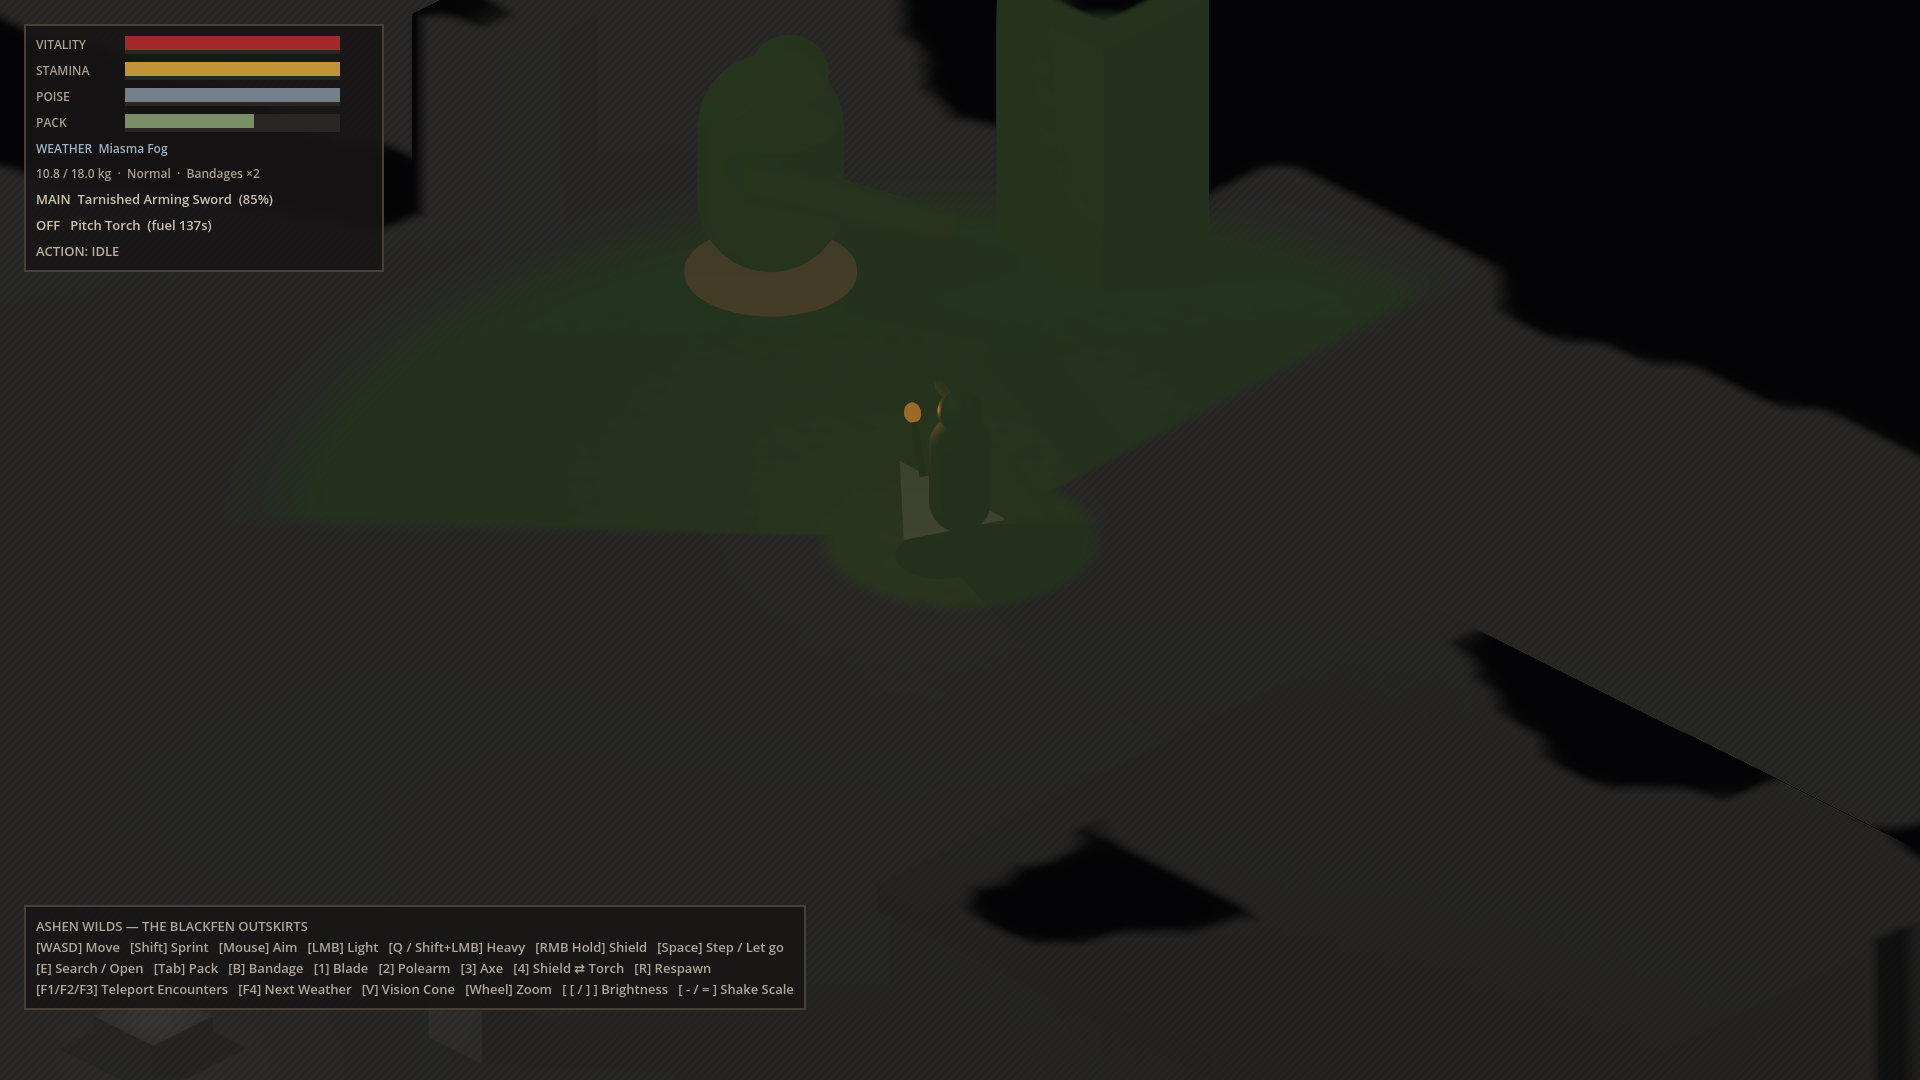
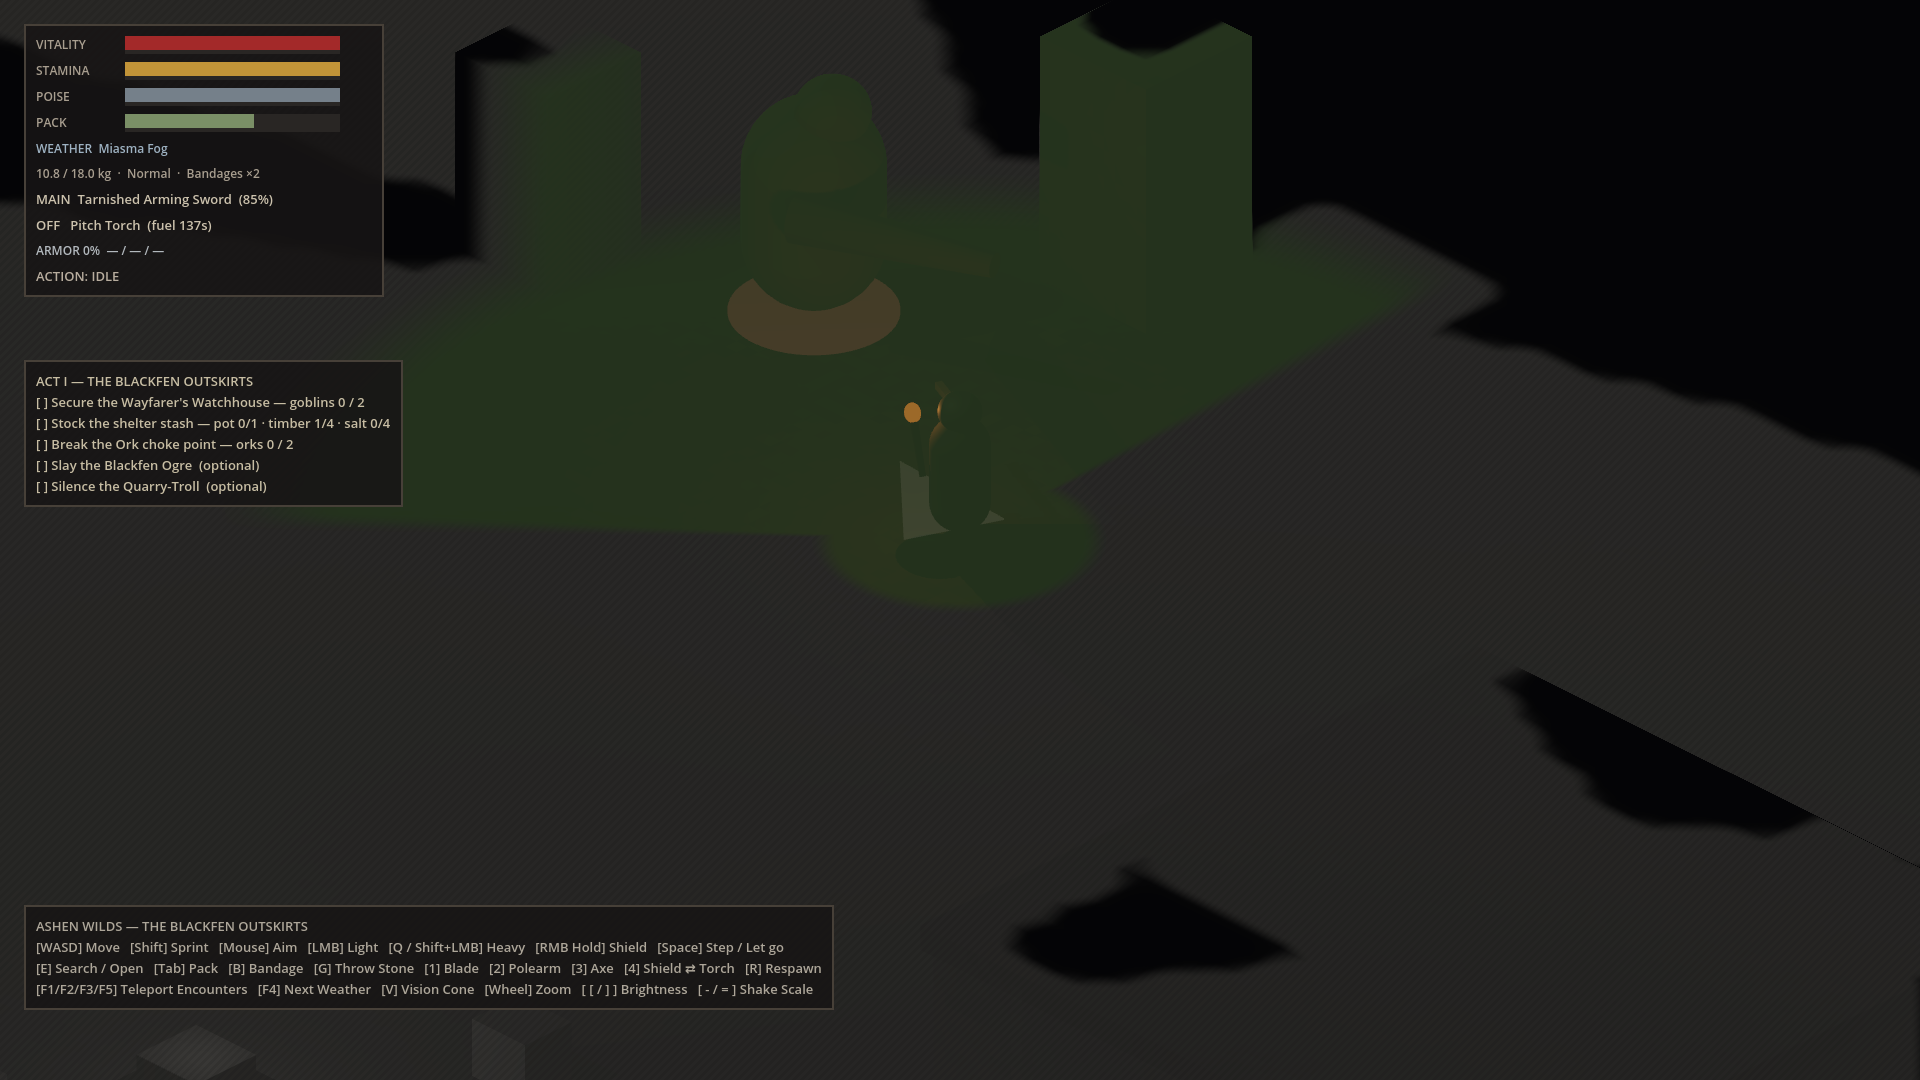
Milestone 13: Act I objectives and the shelter stash
An objective tracker (secure the watchhouse, stock the shelter stash,
break the Ork choke point; optional Ogre and Quarry-Troll) re-checked
twice a second and shown under the stats. The Shelter Stash accepts
deposits via a new Store button in the pack window. Finishing the
main objectives shows a once-only Act I complete card. Screenshots
re-rendered with the new HUD lines; adds the Act I card.
19 new smoke checks (313).

Claude-Session: https://claude.ai/code/session_01G61NxEBeP7y4TB9FiQWy1K

diff --git a/README.md b/README.md
@@ -5,7 +5,7 @@ Thirty years into the Smothering, you are a broken survivor scavenging the Black
 
 ![The Blackfen Ogre winds up a ground slam while the survivor holds a torch and broadaxe](docs/screenshots/06_ogre_lair.png)
 
-> **Status:** Milestones 1–12 complete · verified on Godot 4.3-stable (Forward+) · **294/294** headless regression checks passing
+> **Status:** Milestones 1–13 complete · verified on Godot 4.3-stable (Forward+) · **313/313** headless regression checks passing
 > Art is intentionally placeholder (primitive meshes, procedural audio) — systems first.
 
 ---
@@ -185,6 +185,18 @@ Head, body and legs slots. Equip armor from the pack window. Putting it on and t
 
 The mail is the big choice: real protection and no more bleeding, but 7.5 kg pushes most packs into *Burdened*, and every step jingles for the Quarry-Troll to hear.
 
+### Act I objectives & the shelter (Milestone 13)
+The slice now has an ending. The objective tracker (under your stats) lists:
+
+1. **Secure the Wayfarer's Watchhouse**: kill both goblins.
+2. **Stock the shelter stash**: carry back the Cast-Iron Cooking Pot (from the Ogre's bone heap), 4 Seasoned Timber and 4 Salt Rations. Open the Shelter Stash and use **Store** in your pack window. The stash is the only container that takes deposits.
+3. **Break the Ork choke point**: kill both Orks on the Old Causeway.
+4. *Optional:* slay the Blackfen Ogre. *Optional:* silence the Quarry-Troll.
+
+Finishing the three main objectives shows the **Act I complete** card (time spent and objectives done). **Enter** closes it and you can keep exploring.
+
+![Act I complete](docs/screenshots/15_act_one_complete.png)
+
 ---
 
 ## Controls
@@ -240,7 +252,7 @@ godot --headless --path . --import          # first run only: builds the class c
 godot --headless --path . --script res://tests/smoke_test.gd
 ```
 
-The process exit code is the number of failures (`0` = all passed). It covers spawning, the damage pipeline, the attack state machine, attack tokens, inventory stacking and weight, encumbrance, searching and every way to cancel it, equipment swaps and hitbox reshaping, torch fuel, durability and shield splintering, bandaging, dropping and picking up, the pack/loot UI, corpse loot, the world containers, which strokes clang where (per weapon, per stroke, hall vs. open ground vs. doorway), every lodging outcome (tug free, let go, torn free, work loose, and the cases that must *not* lodge), which enemy strokes clang (Ork sweep vs. chop, Vanguard discipline, Ogre sweep vs. slam, goblin stabs), every survivor's trait and flaw, what the cone can and can't see, exploration memory, when a noise does or doesn't make a ripple, each weather's effect on sight, hearing, fire and footing, indoors and out, what each enemy hears (and doesn't) through walls, the troll's hunting, hide and clangs, thrown stones as lures, and armor (protection, wear, the cap, bleeding, noise, slots).
+The process exit code is the number of failures (`0` = all passed). It covers spawning, the damage pipeline, the attack state machine, attack tokens, inventory stacking and weight, encumbrance, searching and every way to cancel it, equipment swaps and hitbox reshaping, torch fuel, durability and shield splintering, bandaging, dropping and picking up, the pack/loot UI, corpse loot, the world containers, which strokes clang where (per weapon, per stroke, hall vs. open ground vs. doorway), every lodging outcome (tug free, let go, torn free, work loose, and the cases that must *not* lodge), which enemy strokes clang (Ork sweep vs. chop, Vanguard discipline, Ogre sweep vs. slam, goblin stabs), every survivor's trait and flaw, what the cone can and can't see, exploration memory, when a noise does or doesn't make a ripple, each weather's effect on sight, hearing, fire and footing, indoors and out, what each enemy hears (and doesn't) through walls, the troll's hunting, hide and clangs, thrown stones as lures, armor (protection, wear, the cap, bleeding, noise, slots), and the Act I loop (objectives, storing supplies, the end card).
 
 > Headless runs print `Parameter "m" is null` and an "instances leaked at exit" warning. Both come from Godot's dummy renderer and audio driver, which are only used in headless mode — not from the game.
 
@@ -265,7 +277,8 @@ shaders/
   foreground_cutaway.gdshader   Bayer-dither wall/roof cutaway
   vision_memory.gdshader        Vision cone + charcoal memory map (full-screen pass)
 scripts/
-  core/       scene_bootstrap.gd (builds the level, input map, containers), procedural_audio.gd
+  core/       scene_bootstrap.gd (builds the level, input map, containers, Act I objectives), procedural_audio.gd,
+              act_objectives.gd (objective tracker)
   camera/     iso_camera_rig.gd
   combat/     hitbox / hurtbox components, encounter_coordinator.gd, swing_geometry.gd (shared clang arc check)
   data/       weapon_data, combat_payload, item_data, item_instance, item_database (all items + loot tables),
@@ -277,7 +290,7 @@ scripts/
   enemies/    goblin scavenger, ork warrior, ogre brute, quarry troll
   ui/         tactical_hud.gd, inventory_ui.gd, background_picker.gd
 tests/
-  smoke_test.gd            Headless regression suite (294 checks)
+  smoke_test.gd            Headless regression suite (313 checks)
 tools/
   capture_screenshots.gd   Renders docs/screenshots/
 docs/screenshots/          README images (ignored by Godot via docs/.gdignore)
@@ -302,7 +315,7 @@ docs/screenshots/          README images (ignored by Godot via docs/.gdignore)
 
 Milestones 6–9 followed [`docs/ROADMAP.md`](docs/ROADMAP.md). Their numbers are first-pass proposals to be checked against the design document and tuned in playtests. Next candidates:
 
-- Milestones 13–14 (planned in the roadmap): Act I objectives and the shelter, save & load.
+- Milestone 14 (planned in the roadmap): save & load.
 - Later: companions, the rest of the bestiary, Acts II–III.
 - An art and audio pass, once the look is settled. See *Known limitations*.
 
@@ -311,7 +324,7 @@ Milestones 6–9 followed [`docs/ROADMAP.md`](docs/ROADMAP.md). Their numbers ar
 ## Known limitations
 
 - Placeholder visuals: characters and props are primitive meshes; audio is synthesized at runtime.
-- No save system yet; your pack is kept when you respawn.
+- No save system yet; your pack is kept when you respawn. Act I has no failure state: death sends you back to the shelter fire.
 - Only tested on Godot **4.3-stable**.
 - The test suite checks game logic, not feel. Swap times, light levels, charcoal contrast, ripple readability, ice handling and UI layout still need hands-on tuning.
 - Survivor, weather and noise numbers are first-pass proposals (see the roadmap). The design document has the final say.

diff --git a/CLAUDE.md b/CLAUDE.md
@@ -6,7 +6,7 @@ Guidance for Claude (and other agents) working in this repository. Player-facing
 
 An isometric dark-survival action game in **Godot 4.3-stable**, GDScript 2.0, Forward+ renderer. Everything (level geometry, enemies, items, UI, audio) is built in code at startup by `scripts/core/scene_bootstrap.gd`, so there are no imported assets, `.tres` resources or `.tscn` files beyond `main.tscn`.
 
-Milestones 1–12 are complete: combat core, four enemy types, scavenging and equipment, wall deflection and weapon lodging, enemy wall clangs, survivor backgrounds, vision cone and acoustic ripples, weather, enemy ears, the Blind Quarry-Troll and thrown stones, armor slots. `docs/ROADMAP.md` has the plan through M14 and the proposed numbers. The design document (not in the repo) has the final say on specifics.
+Milestones 1–13 are complete: combat core, four enemy types, scavenging and equipment, wall deflection and weapon lodging, enemy wall clangs, survivor backgrounds, vision cone and acoustic ripples, weather, enemy ears, the Blind Quarry-Troll and thrown stones, armor slots, Act I objectives and the shelter stash. `docs/ROADMAP.md` has the plan through M14 and the proposed numbers. The design document (not in the repo) has the final say on specifics.
 
 ## Get Godot (cloud sessions don't have it)
 
@@ -46,7 +46,7 @@ $GODOT --headless --path . --quit-after 1200 2>&1 \
 
 **Expected headless noise. Ignore it:** `Parameter "m" is null` / `mesh_get_surface_count` (dummy renderer) and `ObjectDB instances leaked at exit` (an `AudioStreamGeneratorPlayback` under the dummy audio driver). Neither happens with a real renderer or sound card.
 
-Run the suite twice after timing-sensitive changes to catch flakiness. Currently: **294 checks, 0 failures**.
+Run the suite twice after timing-sensitive changes to catch flakiness. Currently: **313 checks, 0 failures**.
 
 ## Screenshots (README images)
 
@@ -63,7 +63,8 @@ xvfb-run -a -s "-screen 0 1920x1080x24" $GODOT --path . --rendering-driver vulka
 ## Layout
 
 ```
-scripts/core/       scene_bootstrap.gd (level, input map, spawns, containers), procedural_audio.gd
+scripts/core/       scene_bootstrap.gd (level, input map, spawns, containers, objectives), procedural_audio.gd,
+                    act_objectives.gd (checks + progress callables, act completion)
 scripts/camera/     iso_camera_rig.gd (45° yaw / -30° pitch ortho, shake, brightness)
 scripts/combat/     hitbox_component, hurtbox_component, encounter_coordinator (attack tokens), swing_geometry (shared clang arc + sparks)
 scripts/data/       weapon_data, combat_payload, item_data, item_instance, item_database (all items + loot tables),
@@ -95,6 +96,7 @@ Physics layers: 1 Environment · 2 PlayerBody · 3 EnemyBody · 4 PlayerHurtbox 
 - **A noise credited to someone else** (a thrown stone's thud is the thrower's) goes through `AcousticField.report_as()`.
 - **Art is being made separately** (sprites from another agent). Keep visuals inside each class's `_build_*_visuals*` function so they can be swapped without touching gameplay.
 - **Weather:** read effects via `WeatherSystem.factor(node, key)`, never by checking `current`. Fire and footing keys (`SHELTERED_KEYS`) are neutral under a roof. Register new interiors with both the camera rig and `WeatherSystem.register_interior()`. Tests and tools set `weather_cycle_enabled = false` before `add_child` so the weather can't change mid-check.
+- **Objectives** are callables in `_build_act_one_objectives()`, re-checked twice a second. Once done they stay done. Smoke tests that kill an encounter's enemies (the corpse test kills the yard goblin and the Ork Cleaver) change objective state, so the Act I test runs last and counts on that.
 - **UI capture:** while the pack or loot window is open, `PlayerController.ui_capture` suppresses combat input. Any hit force-closes the windows.
 
 ## Conventions and pitfalls (learned the hard way)

diff --git a/docs/ROADMAP.md b/docs/ROADMAP.md
@@ -13,7 +13,7 @@ Milestones 1–5 shipped the combat core, three enemy archetypes, scavenging and
 | 10 | Enemy ears | ✅ shipped | M8 acoustic field |
 | 11 | The Blind Quarry-Troll | ✅ shipped | M10 |
 | 12 | Armor slots | ✅ shipped | M4 inventory, M10 (armor is noisy) |
-| 13 | Act I objectives & the shelter | planned | M4 loot, M7 |
+| 13 | Act I objectives & the shelter | ✅ shipped | M4 loot, M7 |
 | 14 | Save & load | planned | everything above |
 | — | Companions, the rest of the bestiary, Acts II–III | later | design doc; consider Fable for companion AI |
 
@@ -95,13 +95,13 @@ A sightless troll in a new quarry pit east of the Ogre lair. It has no eyes, so 
 
 Head, body and legs slots. Each piece adds **protection** (damage reduction on unblocked hits, capped at 60%), **weight**, and sometimes **noise** (mail ×1.4, greaves ×1.15) or a sprint penalty. Pieces wear as they absorb blows. Riveted mail stops bleeding. Six pieces, found in containers and on corpses, and three survivors start with one.
 
-## Milestone 13 — Act I objectives & the shelter *(proposed)*
+## Milestone 13 — Act I objectives & the shelter
 
 Turns the slice into a loop:
 1. **Secure the Wayfarer's Watchhouse**: kill or drive off both goblins.
-2. **Stock the shelter**: deposit the Cast-Iron Cooking Pot, timber and salt at the shelter fire.
+2. **Stock the shelter**: store the Cast-Iron Cooking Pot, 4 timber and 4 salt in the Shelter Stash (a new **Store** button while it's open).
 3. **Break the Ork choke point** on the Old Causeway: both Orks dead.
-An objective tracker on the HUD, and an Act I complete screen.
+Optional: slay the Ogre and silence the Quarry-Troll. An objective tracker on the HUD, and an Act I complete card.
 
 ## Milestone 14 — Save & load
 
